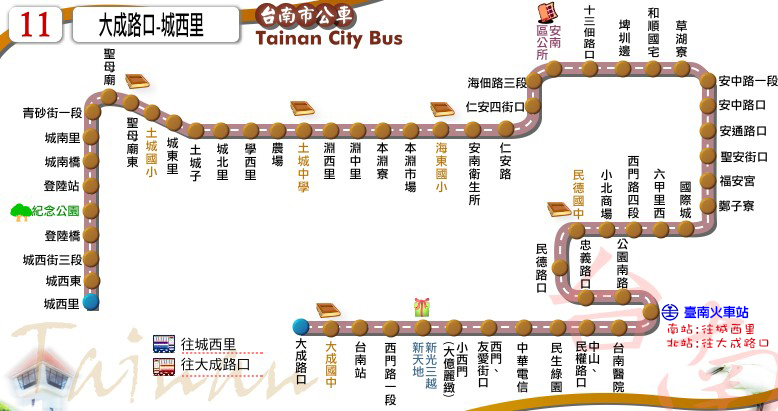
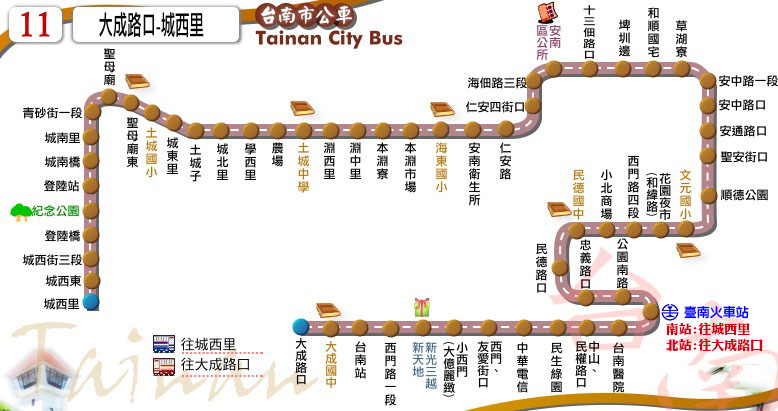
更新路線圖及時刻表：11路(路線改經花園夜市、文元國小)

diff --git a/route/fare_and_time/city_bus_11.js b/route/fare_and_time/city_bus_11.js
@@ -1,8 +1,11 @@
 // format = [time at the start stop] or
 // [time, other] or
 // [time, start_stop, end_stop, other]
-city_bus_11_main_stop_name = ["大成<br />路口","臺南站","小西門<br />(大億麗緻)","臺南<br />火車站","民德<br />路口","鄭子寮","安中路<br />一段","海東<br />國小","土城<br />中學","土城子","聖母廟","城西里"];
-city_bus_11_main_stop_time_consume = [0, 2, 5, 14, 22, 28, 37, 47, 54, 57, 60, 67];
-city_bus_11_important_stop = [0, 1, 3, 7, 10, 11]; // 大成路口, 臺南站, 臺南火車站, 海東國小, 聖母廟, 城西里
-city_bus_11_time_go = [["06:08",[[3,-2,4,-3,6,-3,7,-2]]],["07:38"],["08:58"],["12:13"],["14:23"],["15:23"],["17:18"],["17:38",['W']],["18:28"],["20:38"]];
-city_bus_11_time_return = [["06:10"],["07:10"],["09:15"],["11:00"],["13:30"],["15:50"],["16:50"],["18:40"],["19:15",['W']],["19:50"],["21:45",11,3]];
+city_bus_11_main_stop_name = ["大成<br />路口","臺南站","小西門<br />(大億麗緻)","臺南<br />火車站","民德<br />路口","花園夜市<br />(和緯路)","安中路<br />一段","海東<br />國小","土城<br />中學","聖母廟","城西里"];
+city_bus_11_main_stop_time_consume = [0, 2, 5, 14, 22, 32, 47, 57, 64, 70, 77];
+city_bus_11_important_stop = [0, 1, 3, 5, 7, 9, 10]; // 大成路口, 臺南站, 臺南火車站, 花園夜市(和緯路), 海東國小, 聖母廟, 城西里
+var start_stop = 10; // 城西里
+var tainan_railway_station = 3; // 臺南火車站
+var stop_1 = 7; // 海東國小
+city_bus_11_time_go = [["06:08",[[3,-2,4,-3,6,-3,7,-2]]],["07:38"],["08:58"],["12:13"],["14:23"],["15:23"],["17:18",[[tainan_railway_station,5]]],["17:38",['W',[tainan_railway_station,5]]],["18:43"],["20:38"]];
+city_bus_11_time_return = [["06:10"],["07:25"],["09:15"],["11:00"],["13:50"],["15:50"],["17:00"],["19:00"],["19:40",['W']],["20:15"],["21:55",start_stop,tainan_railway_station,[[start_stop-1,-2,start_stop-2,-2,stop_1,-1]]]];
